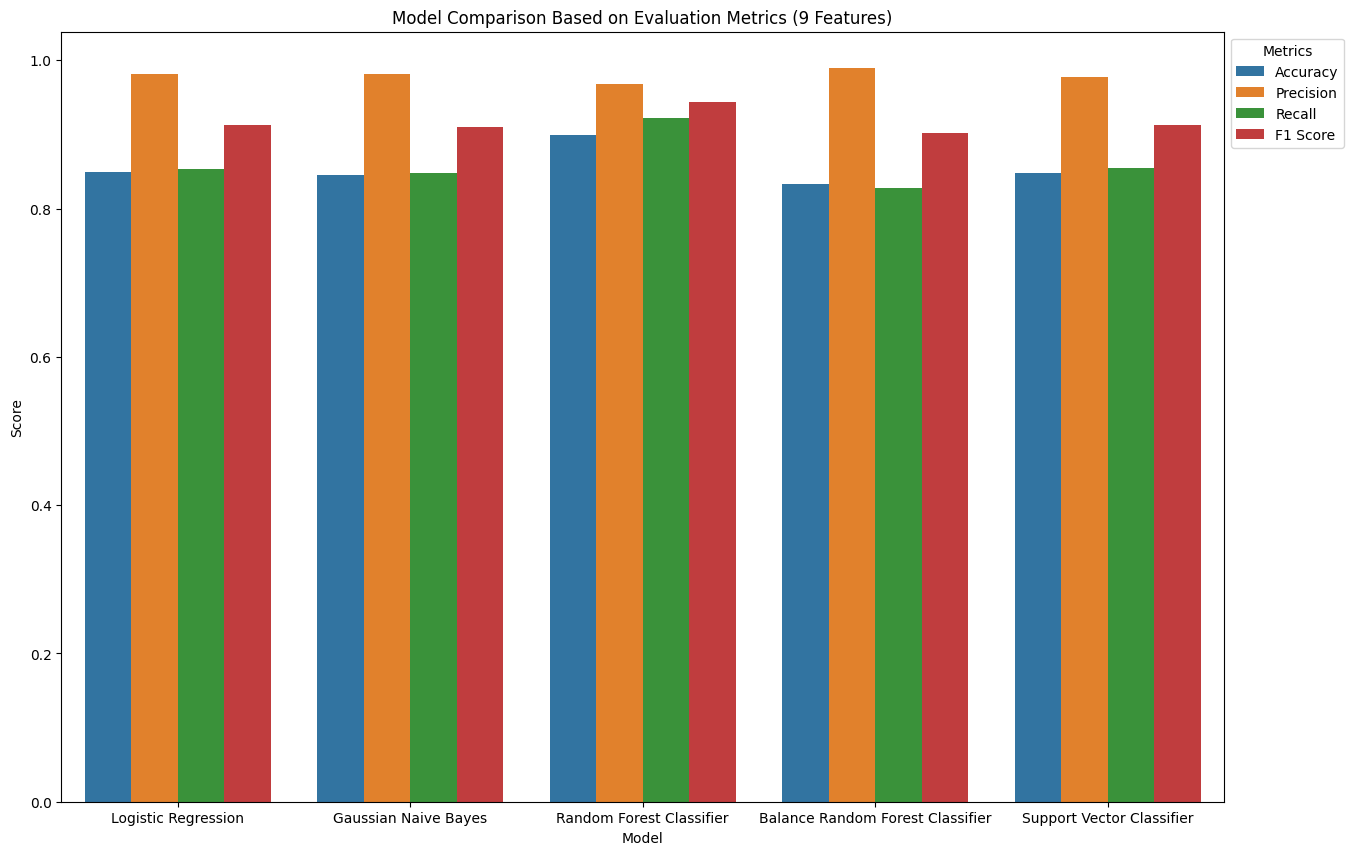
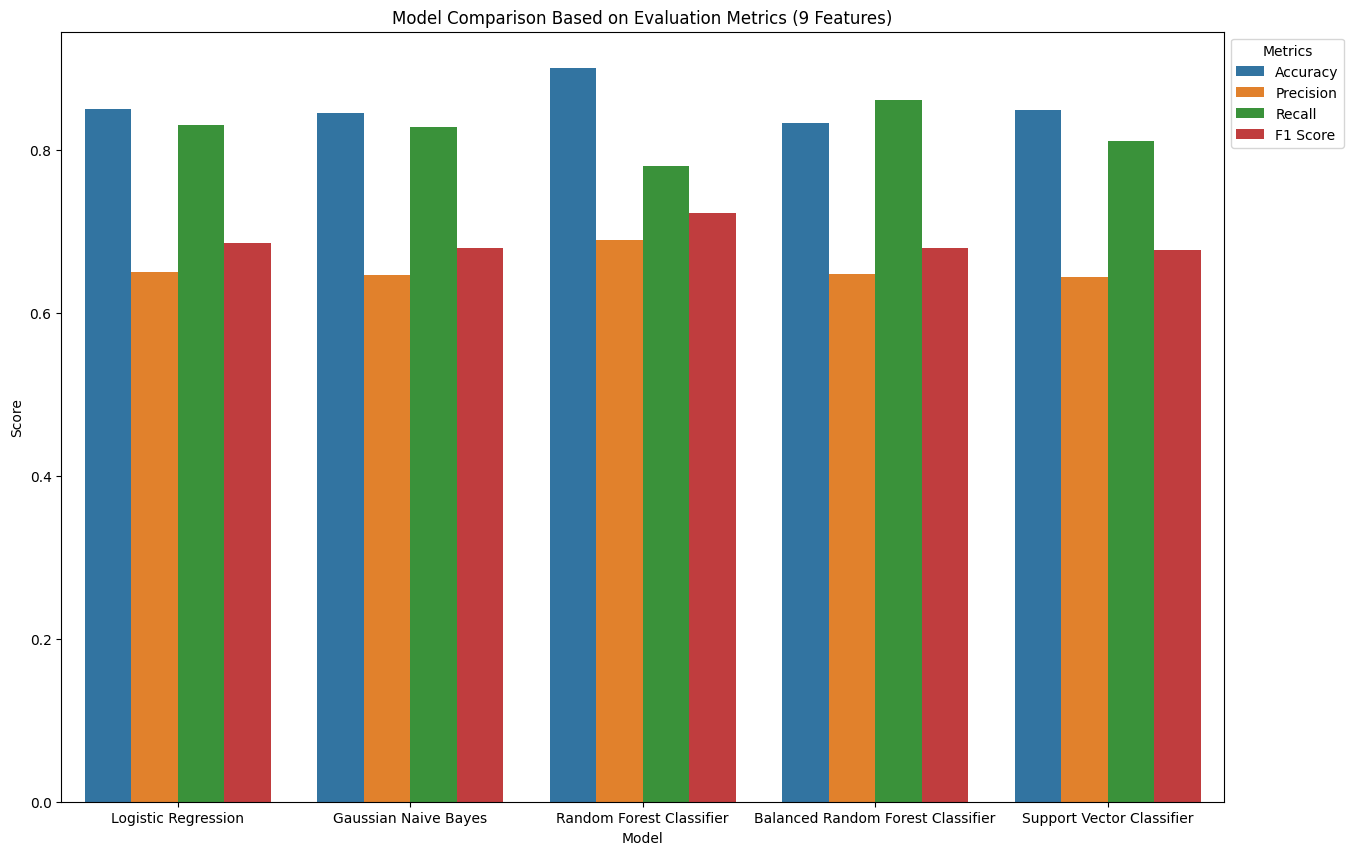
update new confusion matrix compare

diff --git a/pp/Final_plots/model_comparison_3.py b/pp/Final_plots/model_comparison_3.py
@@ -143,16 +143,16 @@ y_test_pred = lr.predict(X_test_scaled)
 
 # Evaluate the model on the test set
 print("Accuracy:", accuracy_score(y_test, y_test_pred))
-print('Precision: ', precision_score(y_test, y_test_pred))
-print('Recall: ', recall_score(y_test, y_test_pred))
-print('F1: ', f1_score(y_test, y_test_pred))
+print('Precision: ', precision_score(y_test, y_test_pred, average='macro'))
+print('Recall: ', recall_score(y_test, y_test_pred, average='macro'))
+print('F1: ', f1_score(y_test, y_test_pred, average='macro'))
 
 metric_list.append({
     "Model": "Logistic Regression",
     "Accuracy": accuracy_score(y_test, y_test_pred),
-    "Precision": precision_score(y_test, y_test_pred),
-    "Recall": recall_score(y_test, y_test_pred),
-    "F1 Score": f1_score(y_test, y_test_pred)
+    "Precision": precision_score(y_test, y_test_pred, average='macro'),
+    "Recall": recall_score(y_test, y_test_pred, average='macro'),
+    "F1 Score": f1_score(y_test, y_test_pred, average='macro')
 })
 
 sns.heatmap(confusion_matrix(y_test, y_test_pred), annot=True, fmt='d')
@@ -178,16 +178,16 @@ y_test_pred = nb.predict(X_test_scaled)
 
 # Evaluate the model on the test set
 print("Accuracy:", accuracy_score(y_test, y_test_pred))
-print('Precision: ', precision_score(y_test, y_test_pred))
-print('Recall: ', recall_score(y_test, y_test_pred))
-print('F1: ', f1_score(y_test, y_test_pred))
+print('Precision: ', precision_score(y_test, y_test_pred, average='macro'))
+print('Recall: ', recall_score(y_test, y_test_pred, average='macro'))
+print('F1: ', f1_score(y_test, y_test_pred, average='macro'))
 
 metric_list.append({
     "Model": "Gaussian Naive Bayes",
     "Accuracy": accuracy_score(y_test, y_test_pred),
-    "Precision": precision_score(y_test, y_test_pred),
-    "Recall": recall_score(y_test, y_test_pred),
-    "F1 Score": f1_score(y_test, y_test_pred)
+    "Precision": precision_score(y_test, y_test_pred, average='macro'),
+    "Recall": recall_score(y_test, y_test_pred, average='macro'),
+    "F1 Score": f1_score(y_test, y_test_pred, average='macro')
 })
 
 sns.heatmap(confusion_matrix(y_test, y_test_pred), annot=True, fmt='d')
@@ -213,16 +213,16 @@ y_test_pred = rf.predict(X_test_scaled)
 
 # Evaluate the model on the test set
 print("Accuracy:", accuracy_score(y_test, y_test_pred))
-print('Precision: ', precision_score(y_test, y_test_pred))
-print('Recall: ', recall_score(y_test, y_test_pred))
-print('F1: ', f1_score(y_test, y_test_pred))
+print('Precision: ', precision_score(y_test, y_test_pred, average='macro'))
+print('Recall: ', recall_score(y_test, y_test_pred, average='macro'))
+print('F1: ', f1_score(y_test, y_test_pred, average='macro'))
 
 metric_list.append({
     "Model": "Random Forest Classifier",
     "Accuracy": accuracy_score(y_test, y_test_pred),
-    "Precision": precision_score(y_test, y_test_pred),
-    "Recall": recall_score(y_test, y_test_pred),
-    "F1 Score": f1_score(y_test, y_test_pred)
+    "Precision": precision_score(y_test, y_test_pred, average='macro'),
+    "Recall": recall_score(y_test, y_test_pred, average='macro'),
+    "F1 Score": f1_score(y_test, y_test_pred, average='macro')
 })
 
 sns.heatmap(confusion_matrix(y_test, y_test_pred), annot=True, fmt='d')
@@ -254,16 +254,16 @@ y_test_pred = brf.predict(X_test_scaled)
 
 # Evaluate the model on the test set
 print("Accuracy:", accuracy_score(y_test, y_test_pred))
-print('Precision: ', precision_score(y_test, y_test_pred))
-print('Recall: ', recall_score(y_test, y_test_pred))
-print('F1: ', f1_score(y_test, y_test_pred))
+print('Precision: ', precision_score(y_test, y_test_pred, average='macro'))
+print('Recall: ', recall_score(y_test, y_test_pred, average='macro'))
+print('F1: ', f1_score(y_test, y_test_pred, average='macro'))
 
 metric_list.append({
-    "Model": "Balance Random Forest Classifier",
+    "Model": "Balanced Random Forest Classifier",
     "Accuracy": accuracy_score(y_test, y_test_pred),
-    "Precision": precision_score(y_test, y_test_pred),
-    "Recall": recall_score(y_test, y_test_pred),
-    "F1 Score": f1_score(y_test, y_test_pred)
+    "Precision": precision_score(y_test, y_test_pred, average='macro'),
+    "Recall": recall_score(y_test, y_test_pred, average='macro'),
+    "F1 Score": f1_score(y_test, y_test_pred, average='macro')
 })
 
 sns.heatmap(confusion_matrix(y_test, y_test_pred), annot=True, fmt='d')
@@ -292,16 +292,16 @@ y_test_pred = svc.predict(X_test_scaled)
 
 # Evaluate the model on the test set
 print("Accuracy:", accuracy_score(y_test, y_test_pred))
-print('Precision: ', precision_score(y_test, y_test_pred))
-print('Recall: ', recall_score(y_test, y_test_pred))
-print('F1: ', f1_score(y_test, y_test_pred))
+print('Precision: ', precision_score(y_test, y_test_pred, average='macro'))
+print('Recall: ', recall_score(y_test, y_test_pred, average='macro'))
+print('F1: ', f1_score(y_test, y_test_pred, average='macro'))
 
 metric_list.append({
     "Model": "Support Vector Classifier",
     "Accuracy": accuracy_score(y_test, y_test_pred),
-    "Precision": precision_score(y_test, y_test_pred),
-    "Recall": recall_score(y_test, y_test_pred),
-    "F1 Score": f1_score(y_test, y_test_pred)
+    "Precision": precision_score(y_test, y_test_pred, average='macro'),
+    "Recall": recall_score(y_test, y_test_pred, average='macro'),
+    "F1 Score": f1_score(y_test, y_test_pred, average='macro')
 })
 
 sns.heatmap(confusion_matrix(y_test, y_test_pred), annot=True, fmt='d')
@@ -327,5 +327,5 @@ output_path = 'Model Comparison Based on Evaluation Metrics (3 Features).png'
 fig.savefig(output_path, bbox_inches='tight')
 plt.show()
 
-metrics_df.to_csv("test3.csv")
+metrics_df.to_csv("model_comparison_3.csv", index=False)
 

diff --git a/pp/Final_plots/model_comparison_9.py b/pp/Final_plots/model_comparison_9.py
@@ -139,16 +139,16 @@ y_test_pred = lr.predict(X_test_scaled)
 
 # Evaluate the model on the test set
 print("Accuracy:", accuracy_score(y_test, y_test_pred))
-print('Precision: ', precision_score(y_test, y_test_pred))
-print('Recall: ', recall_score(y_test, y_test_pred))
-print('F1: ', f1_score(y_test, y_test_pred))
+print('Precision: ', precision_score(y_test, y_test_pred, average='macro'))
+print('Recall: ', recall_score(y_test, y_test_pred, average='macro'))
+print('F1: ', f1_score(y_test, y_test_pred, average='macro'))
 
 metric_list.append({
     "Model": "Logistic Regression",
     "Accuracy": accuracy_score(y_test, y_test_pred),
-    "Precision": precision_score(y_test, y_test_pred),
-    "Recall": recall_score(y_test, y_test_pred),
-    "F1 Score": f1_score(y_test, y_test_pred)
+    "Precision": precision_score(y_test, y_test_pred, average='macro'),
+    "Recall": recall_score(y_test, y_test_pred, average='macro'),
+    "F1 Score": f1_score(y_test, y_test_pred, average='macro')
 })
 
 sns.heatmap(confusion_matrix(y_test, y_test_pred), annot=True, fmt='d')
@@ -174,16 +174,16 @@ y_test_pred = nb.predict(X_test_scaled)
 
 # Evaluate the model on the test set
 print("Accuracy:", accuracy_score(y_test, y_test_pred))
-print('Precision: ', precision_score(y_test, y_test_pred))
-print('Recall: ', recall_score(y_test, y_test_pred))
-print('F1: ', f1_score(y_test, y_test_pred))
+print('Precision: ', precision_score(y_test, y_test_pred, average='macro'))
+print('Recall: ', recall_score(y_test, y_test_pred, average='macro'))
+print('F1: ', f1_score(y_test, y_test_pred, average='macro'))
 
 metric_list.append({
     "Model": "Gaussian Naive Bayes",
     "Accuracy": accuracy_score(y_test, y_test_pred),
-    "Precision": precision_score(y_test, y_test_pred),
-    "Recall": recall_score(y_test, y_test_pred),
-    "F1 Score": f1_score(y_test, y_test_pred)
+    "Precision": precision_score(y_test, y_test_pred, average='macro'),
+    "Recall": recall_score(y_test, y_test_pred, average='macro'),
+    "F1 Score": f1_score(y_test, y_test_pred, average='macro')
 })
 
 sns.heatmap(confusion_matrix(y_test, y_test_pred), annot=True, fmt='d')
@@ -209,16 +209,16 @@ y_test_pred = rf.predict(X_test_scaled)
 
 # Evaluate the model on the test set
 print("Accuracy:", accuracy_score(y_test, y_test_pred))
-print('Precision: ', precision_score(y_test, y_test_pred))
-print('Recall: ', recall_score(y_test, y_test_pred))
-print('F1: ', f1_score(y_test, y_test_pred))
+print('Precision: ', precision_score(y_test, y_test_pred, average='macro'))
+print('Recall: ', recall_score(y_test, y_test_pred, average='macro'))
+print('F1: ', f1_score(y_test, y_test_pred, average='macro'))
 
 metric_list.append({
     "Model": "Random Forest Classifier",
     "Accuracy": accuracy_score(y_test, y_test_pred),
-    "Precision": precision_score(y_test, y_test_pred),
-    "Recall": recall_score(y_test, y_test_pred),
-    "F1 Score": f1_score(y_test, y_test_pred)
+    "Precision": precision_score(y_test, y_test_pred, average='macro'),
+    "Recall": recall_score(y_test, y_test_pred, average='macro'),
+    "F1 Score": f1_score(y_test, y_test_pred, average='macro')
 })
 
 sns.heatmap(confusion_matrix(y_test, y_test_pred), annot=True, fmt='d')
@@ -250,16 +250,16 @@ y_test_pred = brf.predict(X_test_scaled)
 
 # Evaluate the model on the test set
 print("Accuracy:", accuracy_score(y_test, y_test_pred))
-print('Precision: ', precision_score(y_test, y_test_pred))
-print('Recall: ', recall_score(y_test, y_test_pred))
-print('F1: ', f1_score(y_test, y_test_pred))
+print('Precision: ', precision_score(y_test, y_test_pred, average='macro'))
+print('Recall: ', recall_score(y_test, y_test_pred, average='macro'))
+print('F1: ', f1_score(y_test, y_test_pred, average='macro'))
 
 metric_list.append({
-    "Model": "Balance Random Forest Classifier",
+    "Model": "Balanced Random Forest Classifier",
     "Accuracy": accuracy_score(y_test, y_test_pred),
-    "Precision": precision_score(y_test, y_test_pred),
-    "Recall": recall_score(y_test, y_test_pred),
-    "F1 Score": f1_score(y_test, y_test_pred)
+    "Precision": precision_score(y_test, y_test_pred, average='macro'),
+    "Recall": recall_score(y_test, y_test_pred, average='macro'),
+    "F1 Score": f1_score(y_test, y_test_pred, average='macro')
 })
 
 sns.heatmap(confusion_matrix(y_test, y_test_pred), annot=True, fmt='d')
@@ -288,16 +288,16 @@ y_test_pred = svc.predict(X_test_scaled)
 
 # Evaluate the model on the test set
 print("Accuracy:", accuracy_score(y_test, y_test_pred))
-print('Precision: ', precision_score(y_test, y_test_pred))
-print('Recall: ', recall_score(y_test, y_test_pred))
-print('F1: ', f1_score(y_test, y_test_pred))
+print('Precision: ', precision_score(y_test, y_test_pred, average='macro'))
+print('Recall: ', recall_score(y_test, y_test_pred, average='macro'))
+print('F1: ', f1_score(y_test, y_test_pred, average='macro'))
 
 metric_list.append({
     "Model": "Support Vector Classifier",
     "Accuracy": accuracy_score(y_test, y_test_pred),
-    "Precision": precision_score(y_test, y_test_pred),
-    "Recall": recall_score(y_test, y_test_pred),
-    "F1 Score": f1_score(y_test, y_test_pred)
+    "Precision": precision_score(y_test, y_test_pred, average='macro'),
+    "Recall": recall_score(y_test, y_test_pred, average='macro'),
+    "F1 Score": f1_score(y_test, y_test_pred, average='macro')
 })
 
 sns.heatmap(confusion_matrix(y_test, y_test_pred), annot=True, fmt='d')
@@ -323,3 +323,4 @@ output_path = 'Model Comparison Based on Evaluation Metrics (9 Features).png'
 fig.savefig(output_path, bbox_inches='tight')
 plt.show()
 
+metrics_df.to_csv('model_comparison_9.csv', index=False)
